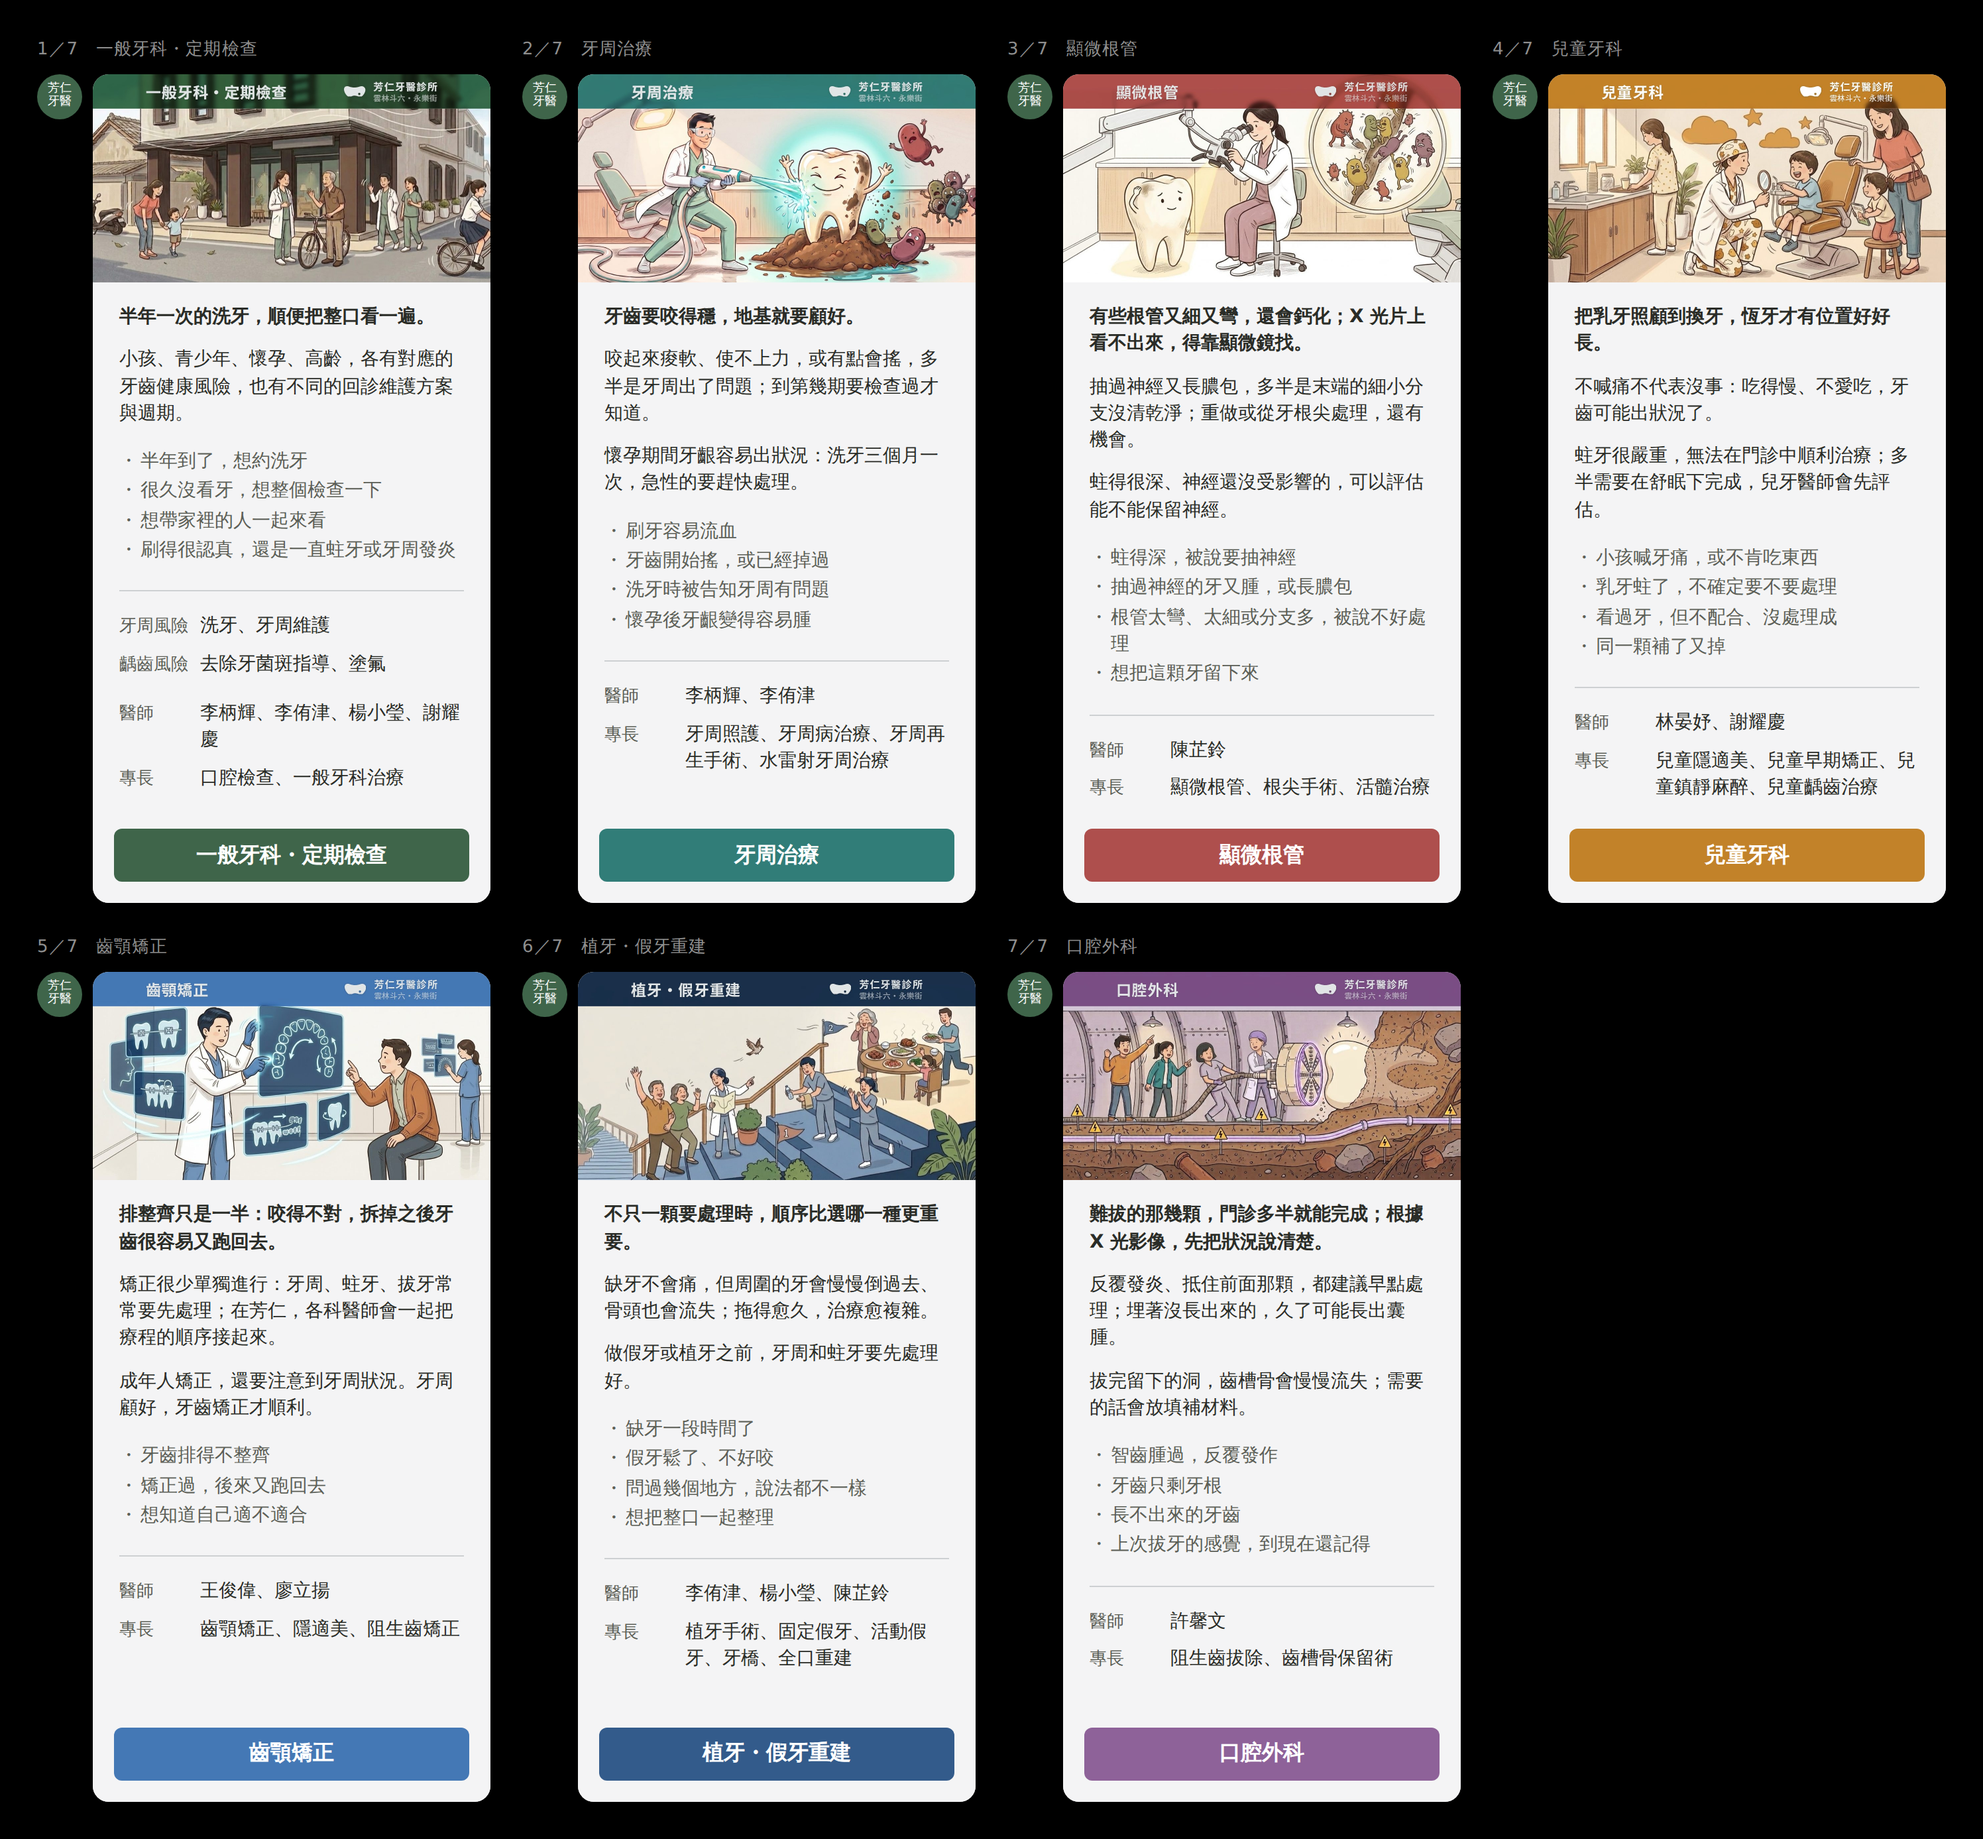
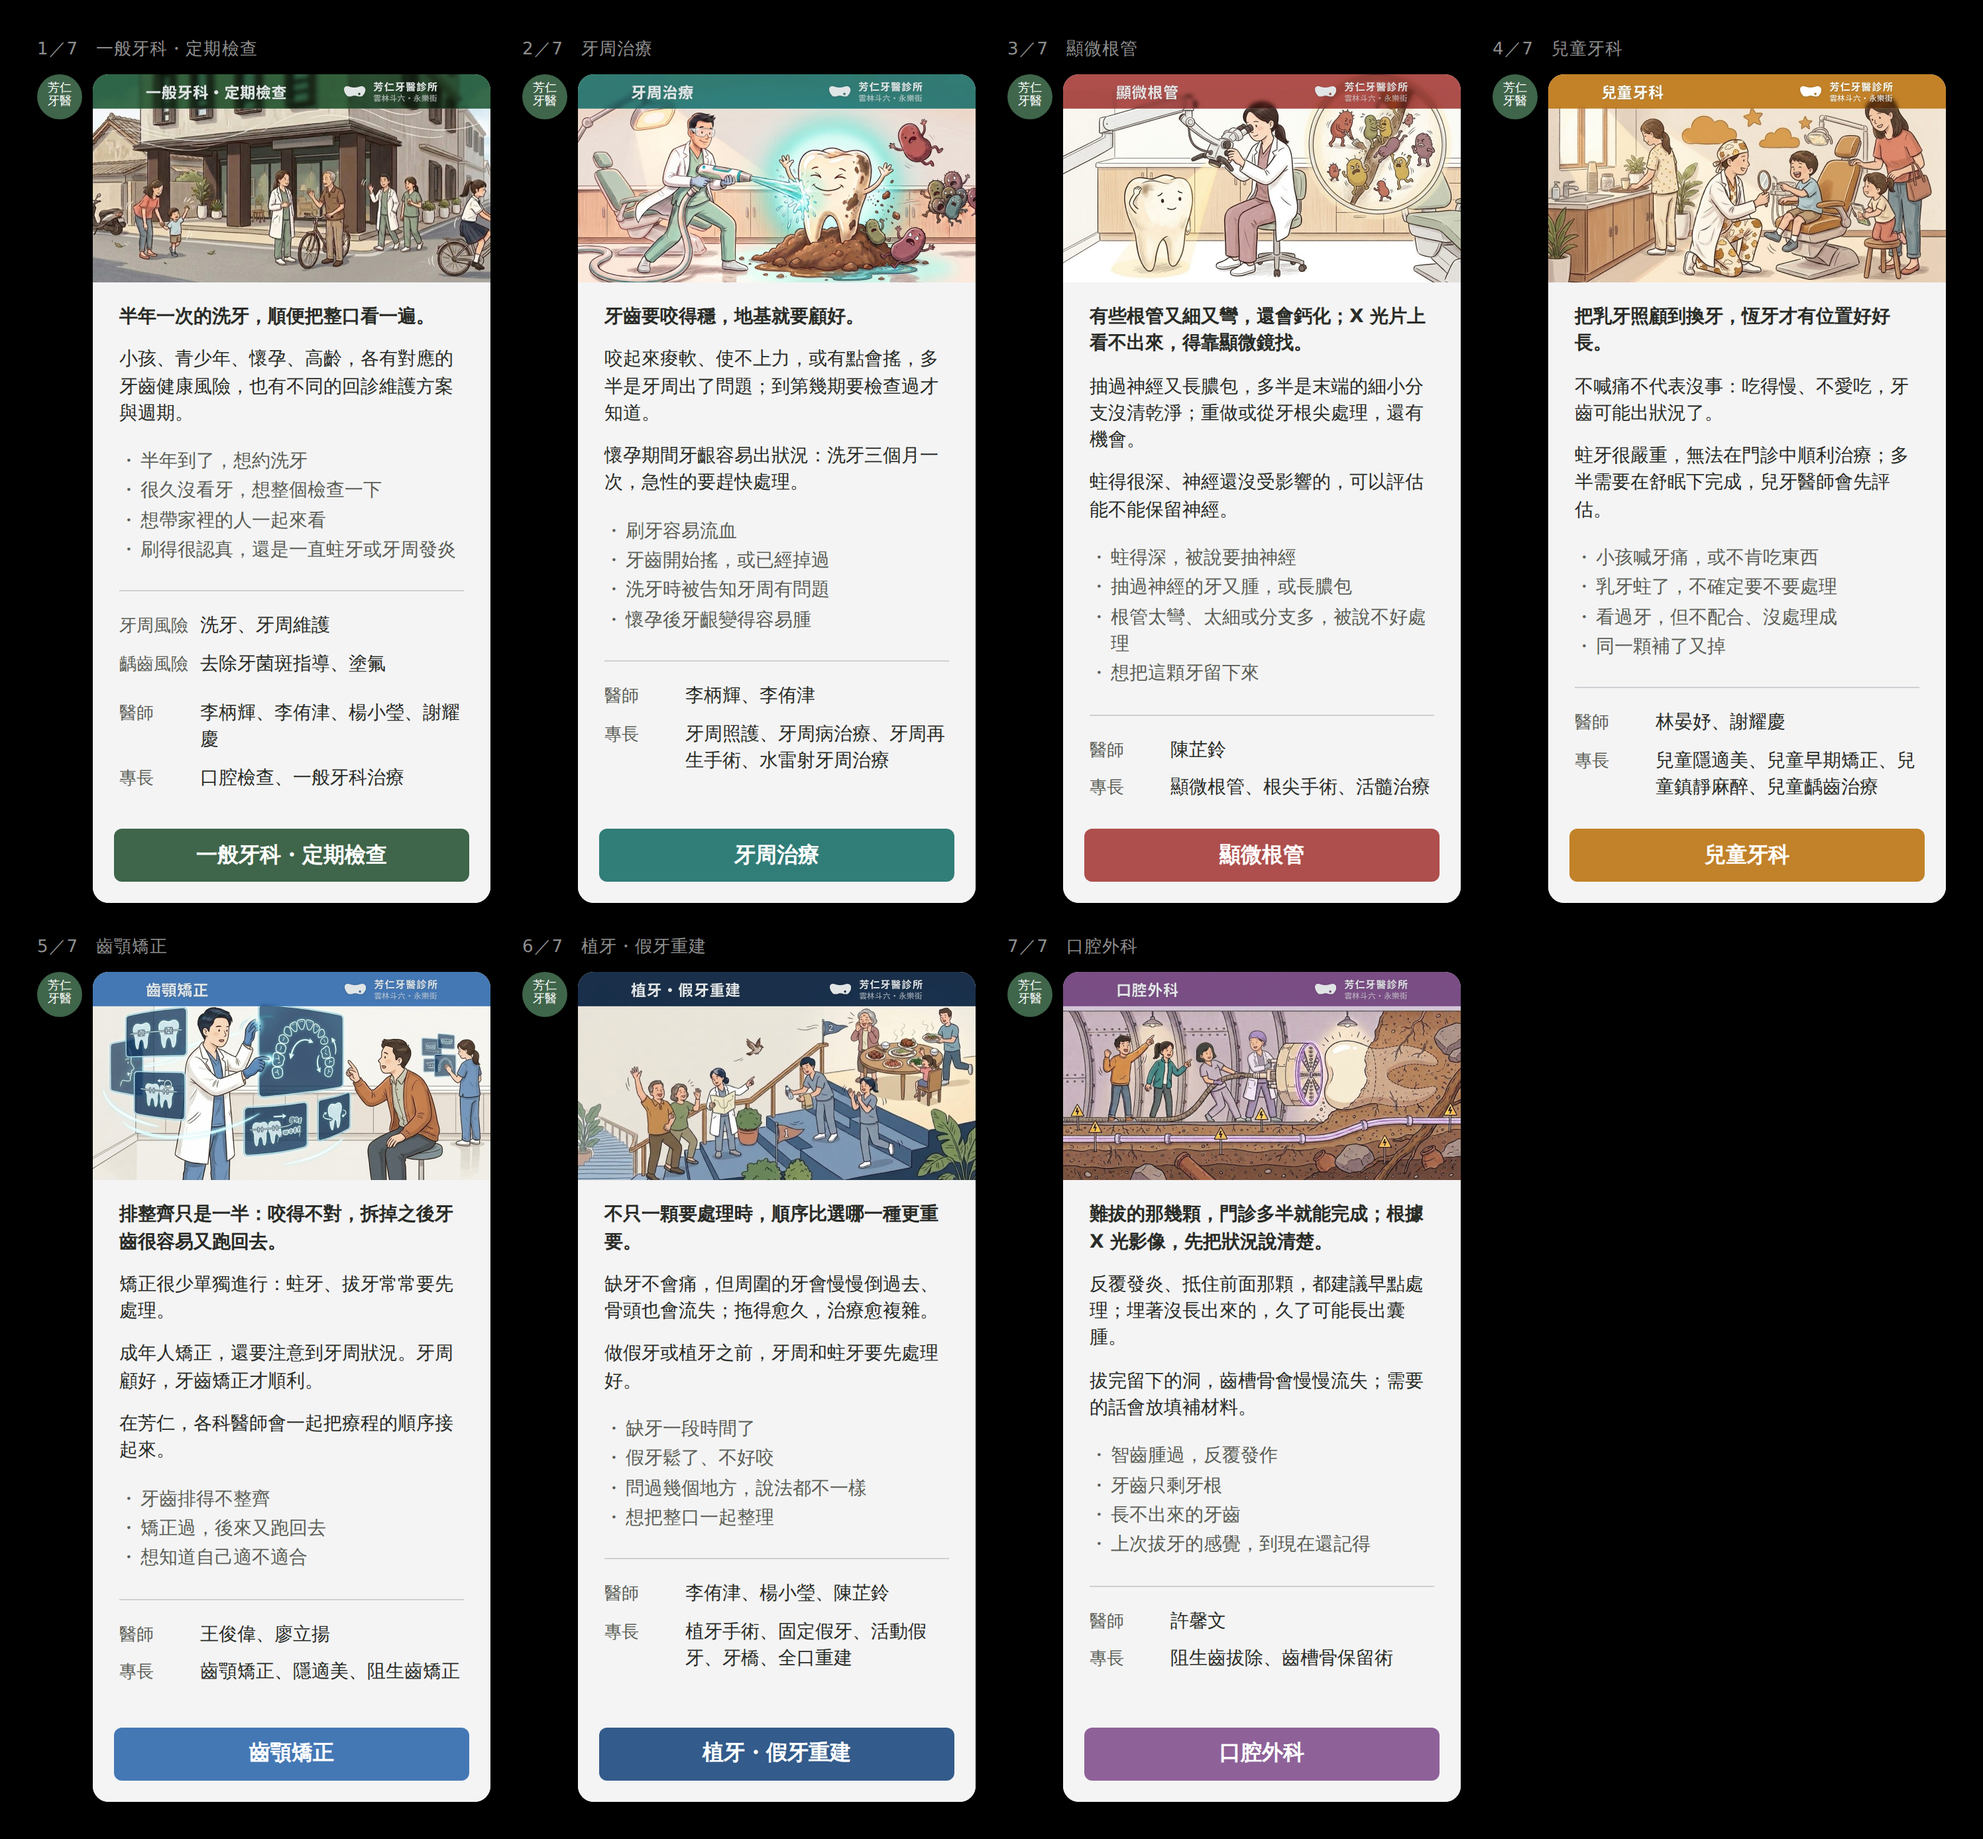
矯正卡：拆成三句，牙周退出清單、跨科協作獨立一行
Claude-Session: https://claude.ai/code/session_01QMa36HgXCp2rYEV7ykbWqK

Changed region(s): [[0.0622, 0.682, 0.2176, 0.9301]]

diff --git a/drafts/line-oa/README.md b/drafts/line-oa/README.md
@@ -874,3 +874,23 @@ CLAUDE.md 第九節那張表裡**還沒問到**的事，不要自己補。
 —— **通則在前、特例在後**：「矯正很少單獨進行」是整科的立場，
 「成年人還要顧牙周」是它底下的一種情況。先講小的那一種，
 讀的人要先接受一個他不確定適不適用的前提，才讀到通則。
+
+### 再收一次（使用者定稿，三句）
+
+```
+排整齊只是一半：咬得不對，拆掉之後牙齒很容易又跑回去。
+
+矯正很少單獨進行：蛀牙、拔牙常常要先處理。
+成年人矯正，還要注意到牙周狀況。牙周顧好，牙齒矯正才順利。
+
+在芳仁，各科醫師會一起把療程的順序接起來。
+```
+
+兩件：
+
+1. **牙周從第一句的清單裡拿掉。** 下一句整句就在講牙周，列在前面等於同一件事
+   講兩次，而且會讓下一句讀起來像在重複。
+2. **「在芳仁…」獨立成一句。** 它不是「矯正很少單獨進行」的下半，是**前面兩句
+   合起來之後的回應**（既然要跨科，那這裡怎麼接）。掛在第一句尾巴，等於只回應了
+   蛀牙與拔牙，接不到牙周那一句。
+   ⚠ 通則：**一句話同時是兩句話的答案時，它要自己站一行，不要黏在其中一句後面。**

diff --git a/TEAM.md b/TEAM.md
@@ -335,6 +335,11 @@
     讀的人會自動問「**那不是的呢**」，而短文案沒有空間回答。
     **要嘛答得出來，要嘛不要寫。**
     ⚠ 和**頻率詞**不同：「**多半**門診就能完成」講的是常態，沒有先切出一群例外。
+  - ⚠ **一句話同時是前面好幾句的回應時，它要自己站一行。** 黏在其中一句的
+    尾巴，等於只回應了那一句。2026-08-28 踩過：「在芳仁，各科醫師會一起把
+    療程的順序接起來」原本掛在「蛀牙、拔牙要先處理」後面，就接不到下一句的牙周。
+  - ⚠ **下一句整句在講的事，不要出現在上一句的清單裡** —— 同一件事講兩次，
+    而且會讓下一句讀起來像在重複。
   - ⚠ **同一張卡上兩句有大小之分時，通則在前、特例在後。**
     「矯正很少單獨進行」是整科的立場，「成年人還要顧牙周」是它底下的一種情況；
     倒過來排，讀的人要先接受一個不確定適不適用在自己身上的前提。
